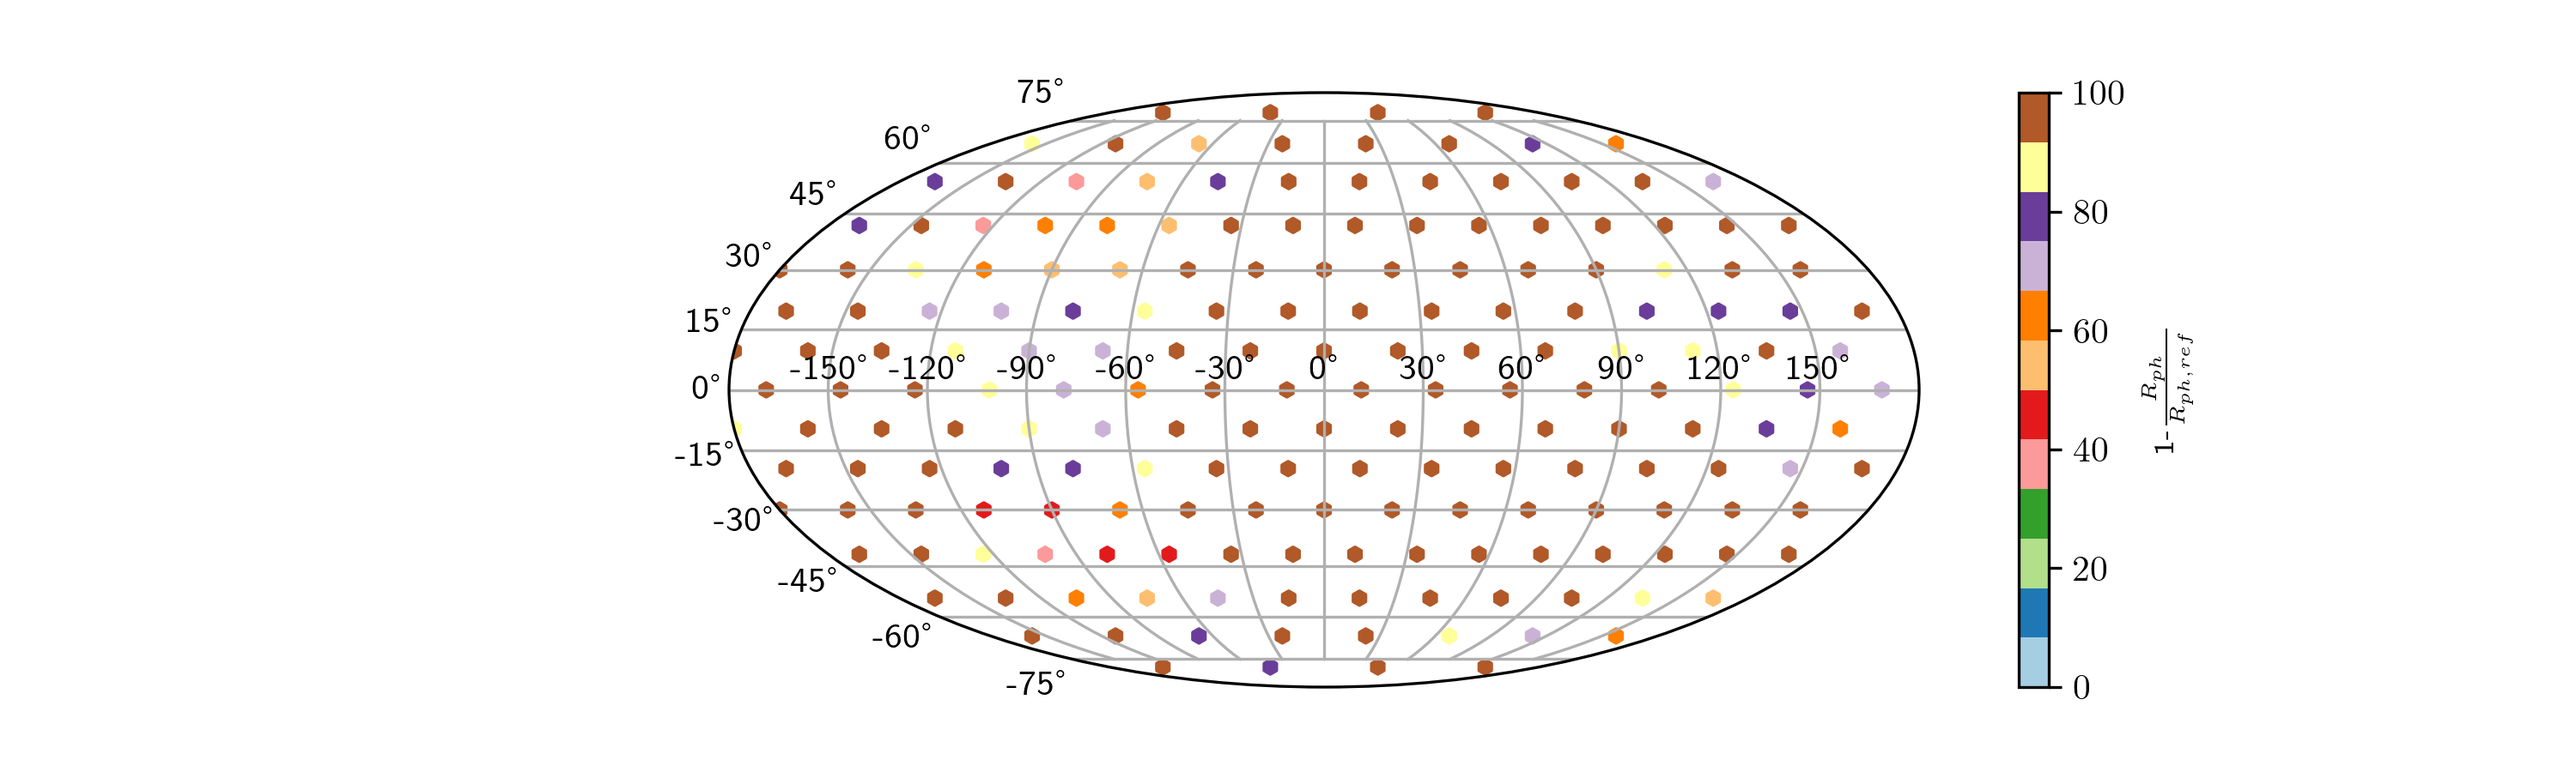
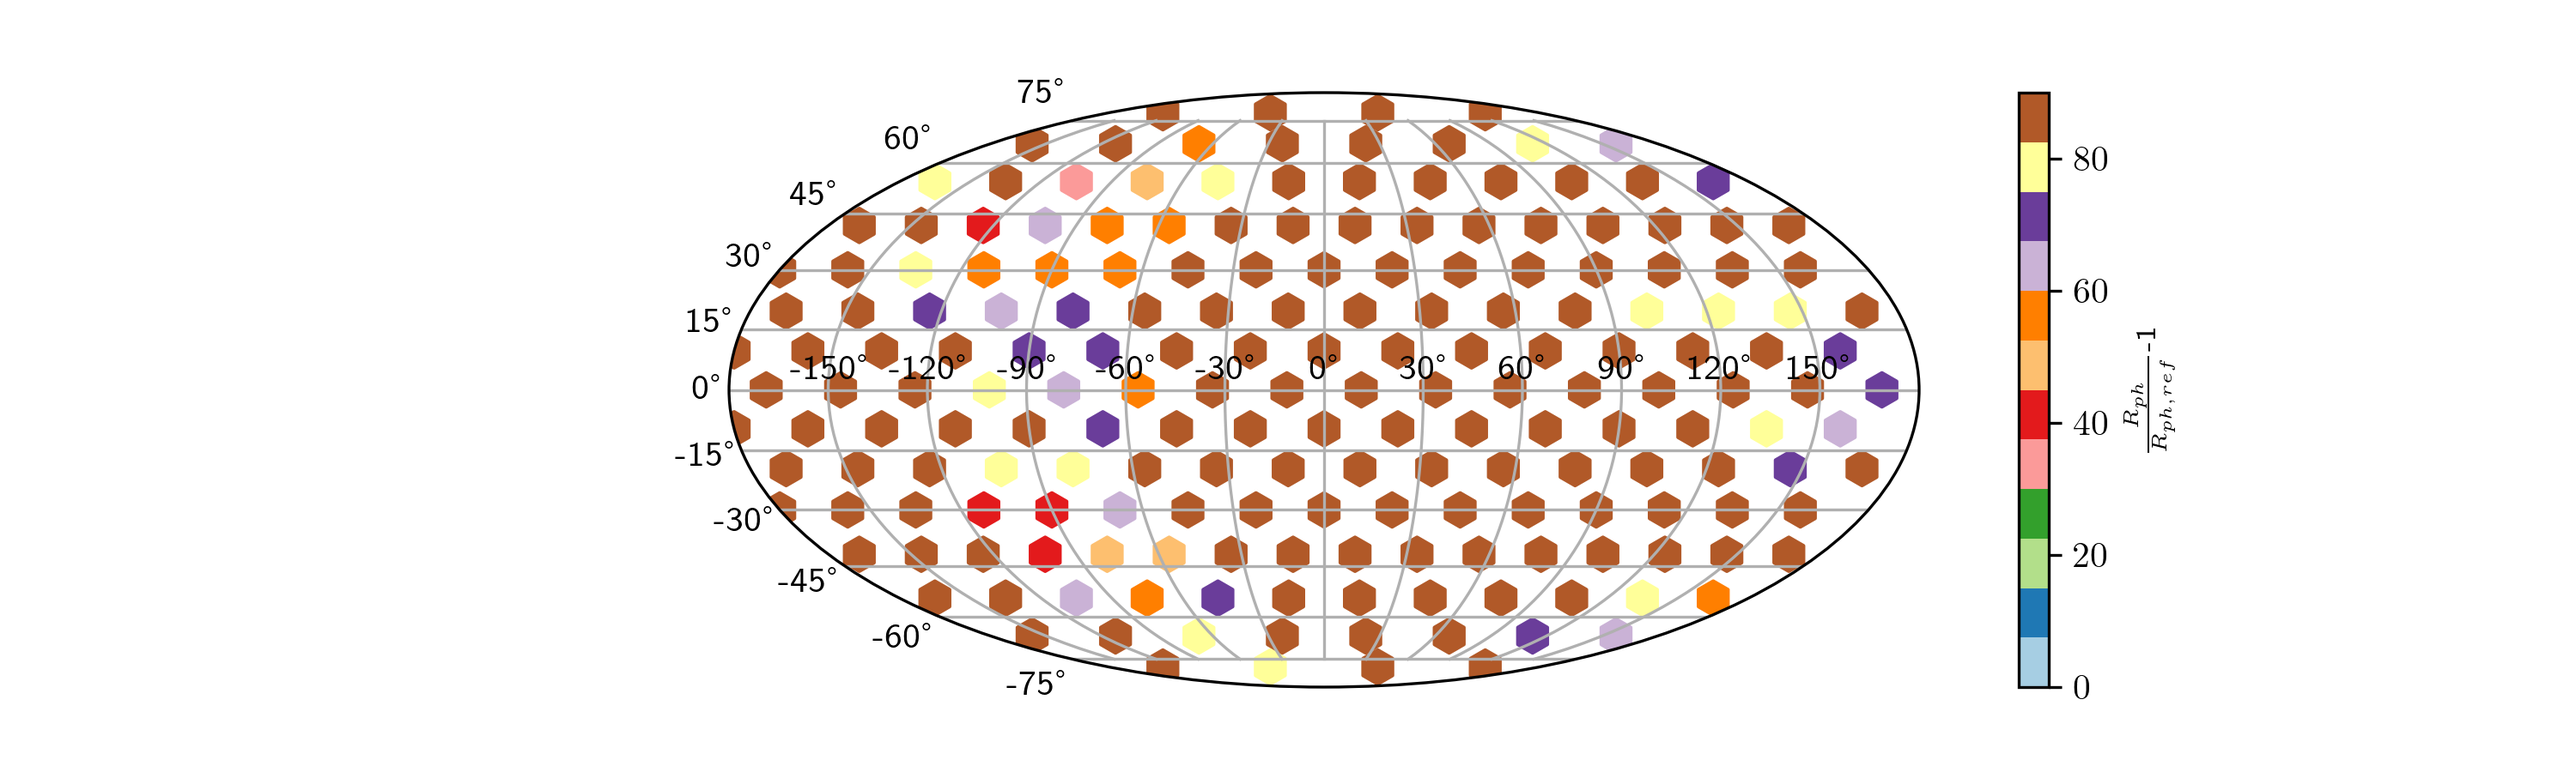
figures

diff --git a/src/Plotting/find_observers.py b/src/Plotting/find_observers.py
@@ -16,9 +16,9 @@ plt.rcParams['figure.figsize'] = [10 , 3]
 
 NSIDE = 4
 m = 6
-fix = 1008
-num = 5300 #700 for 844, 3000 for 925, 5360 for 1008
-index_num = 2
+fix = 844
+num = 700 #700 for 844, 3000 for 925, 5360 for 1008
+index_num = 3
 see_observers = False
 photosphere = True
 flux = True
@@ -31,7 +31,7 @@ for i in range(0,192):
     thetas[i] -= np.pi/2 # Enforce theta in -pi/2 to pi/2
     phis[i] -= np.pi # Enforce theta in -pi to pi
     observers.append( (thetas[i], phis[i]) )
-
+print(phis)
 # Plot
 if see_observers:
     fig, ax = plt.subplots(1,1, subplot_kw=dict(projection="mollweide"))
@@ -45,7 +45,7 @@ if see_observers:
 if flux:
     flux = np.loadtxt('data/red/flux_m' + str(m) + '_fix' + str(fix) + '.txt')[index_num]/1e15
     fig, ax = plt.subplots(1,1, subplot_kw=dict(projection = "mollweide"))
-    img = ax.scatter(phis, thetas, c = flux, cmap = plt.cm.coolwarm, s=15, marker = 'h', vmin = -5, vmax = 5)
+    img = ax.scatter(phis, thetas, c = flux, cmap = plt.cm.coolwarm, s=90, marker = 'h', vmin = -5, vmax = 5)
     cbar = fig.colorbar(img)
     cbar.set_label(r'Flux [$10^{15}$ erg/$cm^2$s]', fontsize = 8)
     plt.grid(True)
@@ -59,9 +59,9 @@ if photosphere:
     photo = np.loadtxt('data/red/photosphere' + str(fix) + '_num' + str(num) + '.txt')
     photo_to_plot = (photo/Rref) - 1
     fig, ax = plt.subplots(1,1, subplot_kw=dict(projection = "mollweide"))
-    img = ax.scatter(phis, thetas, c = photo_to_plot, cmap = plt.cm.Paired, s = 15, marker = 'h', vmin = 0, vmax = 100)
+    img = ax.scatter(phis, thetas, c = photo_to_plot, cmap = plt.cm.winter, s = 90, marker = 'h', vmin = 0, vmax = 90)
     cbar = fig.colorbar(img)
-    cbar.set_label(r'1-$\frac{R_{ph}}{R_{ph,ref}}$', fontsize = 8)
+    cbar.set_label(r'$\frac{R_{ph}}{R_{ph,ref}}$-1', fontsize = 8)
     plt.grid(True)
     plt.savefig('Final plot/observers_photo' + str(fix) + '.png')
     plt.show()
